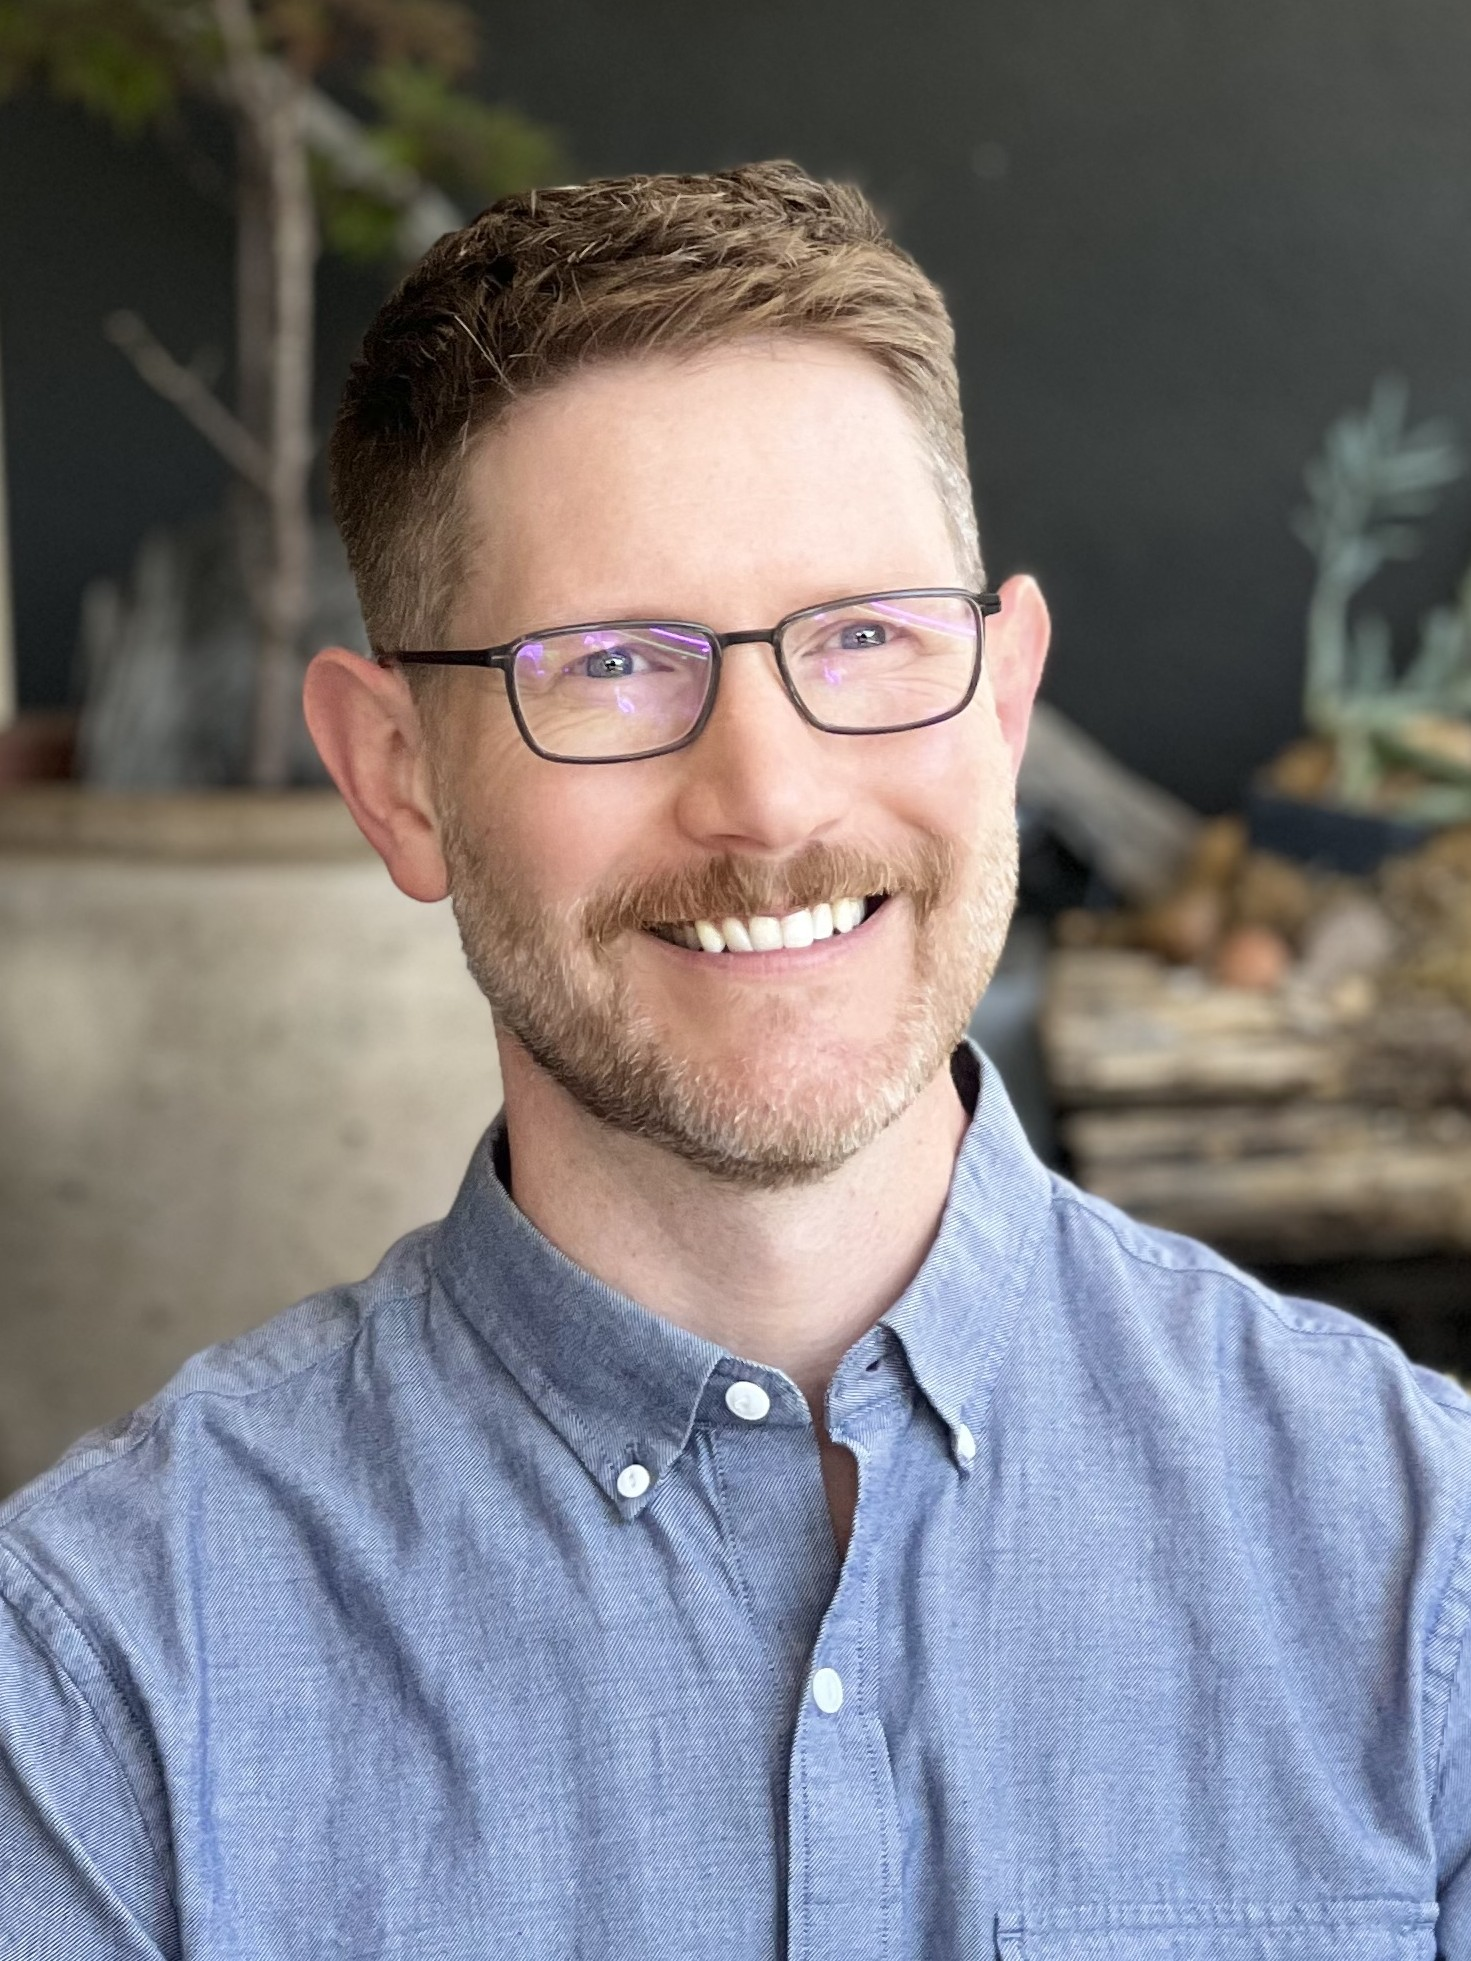
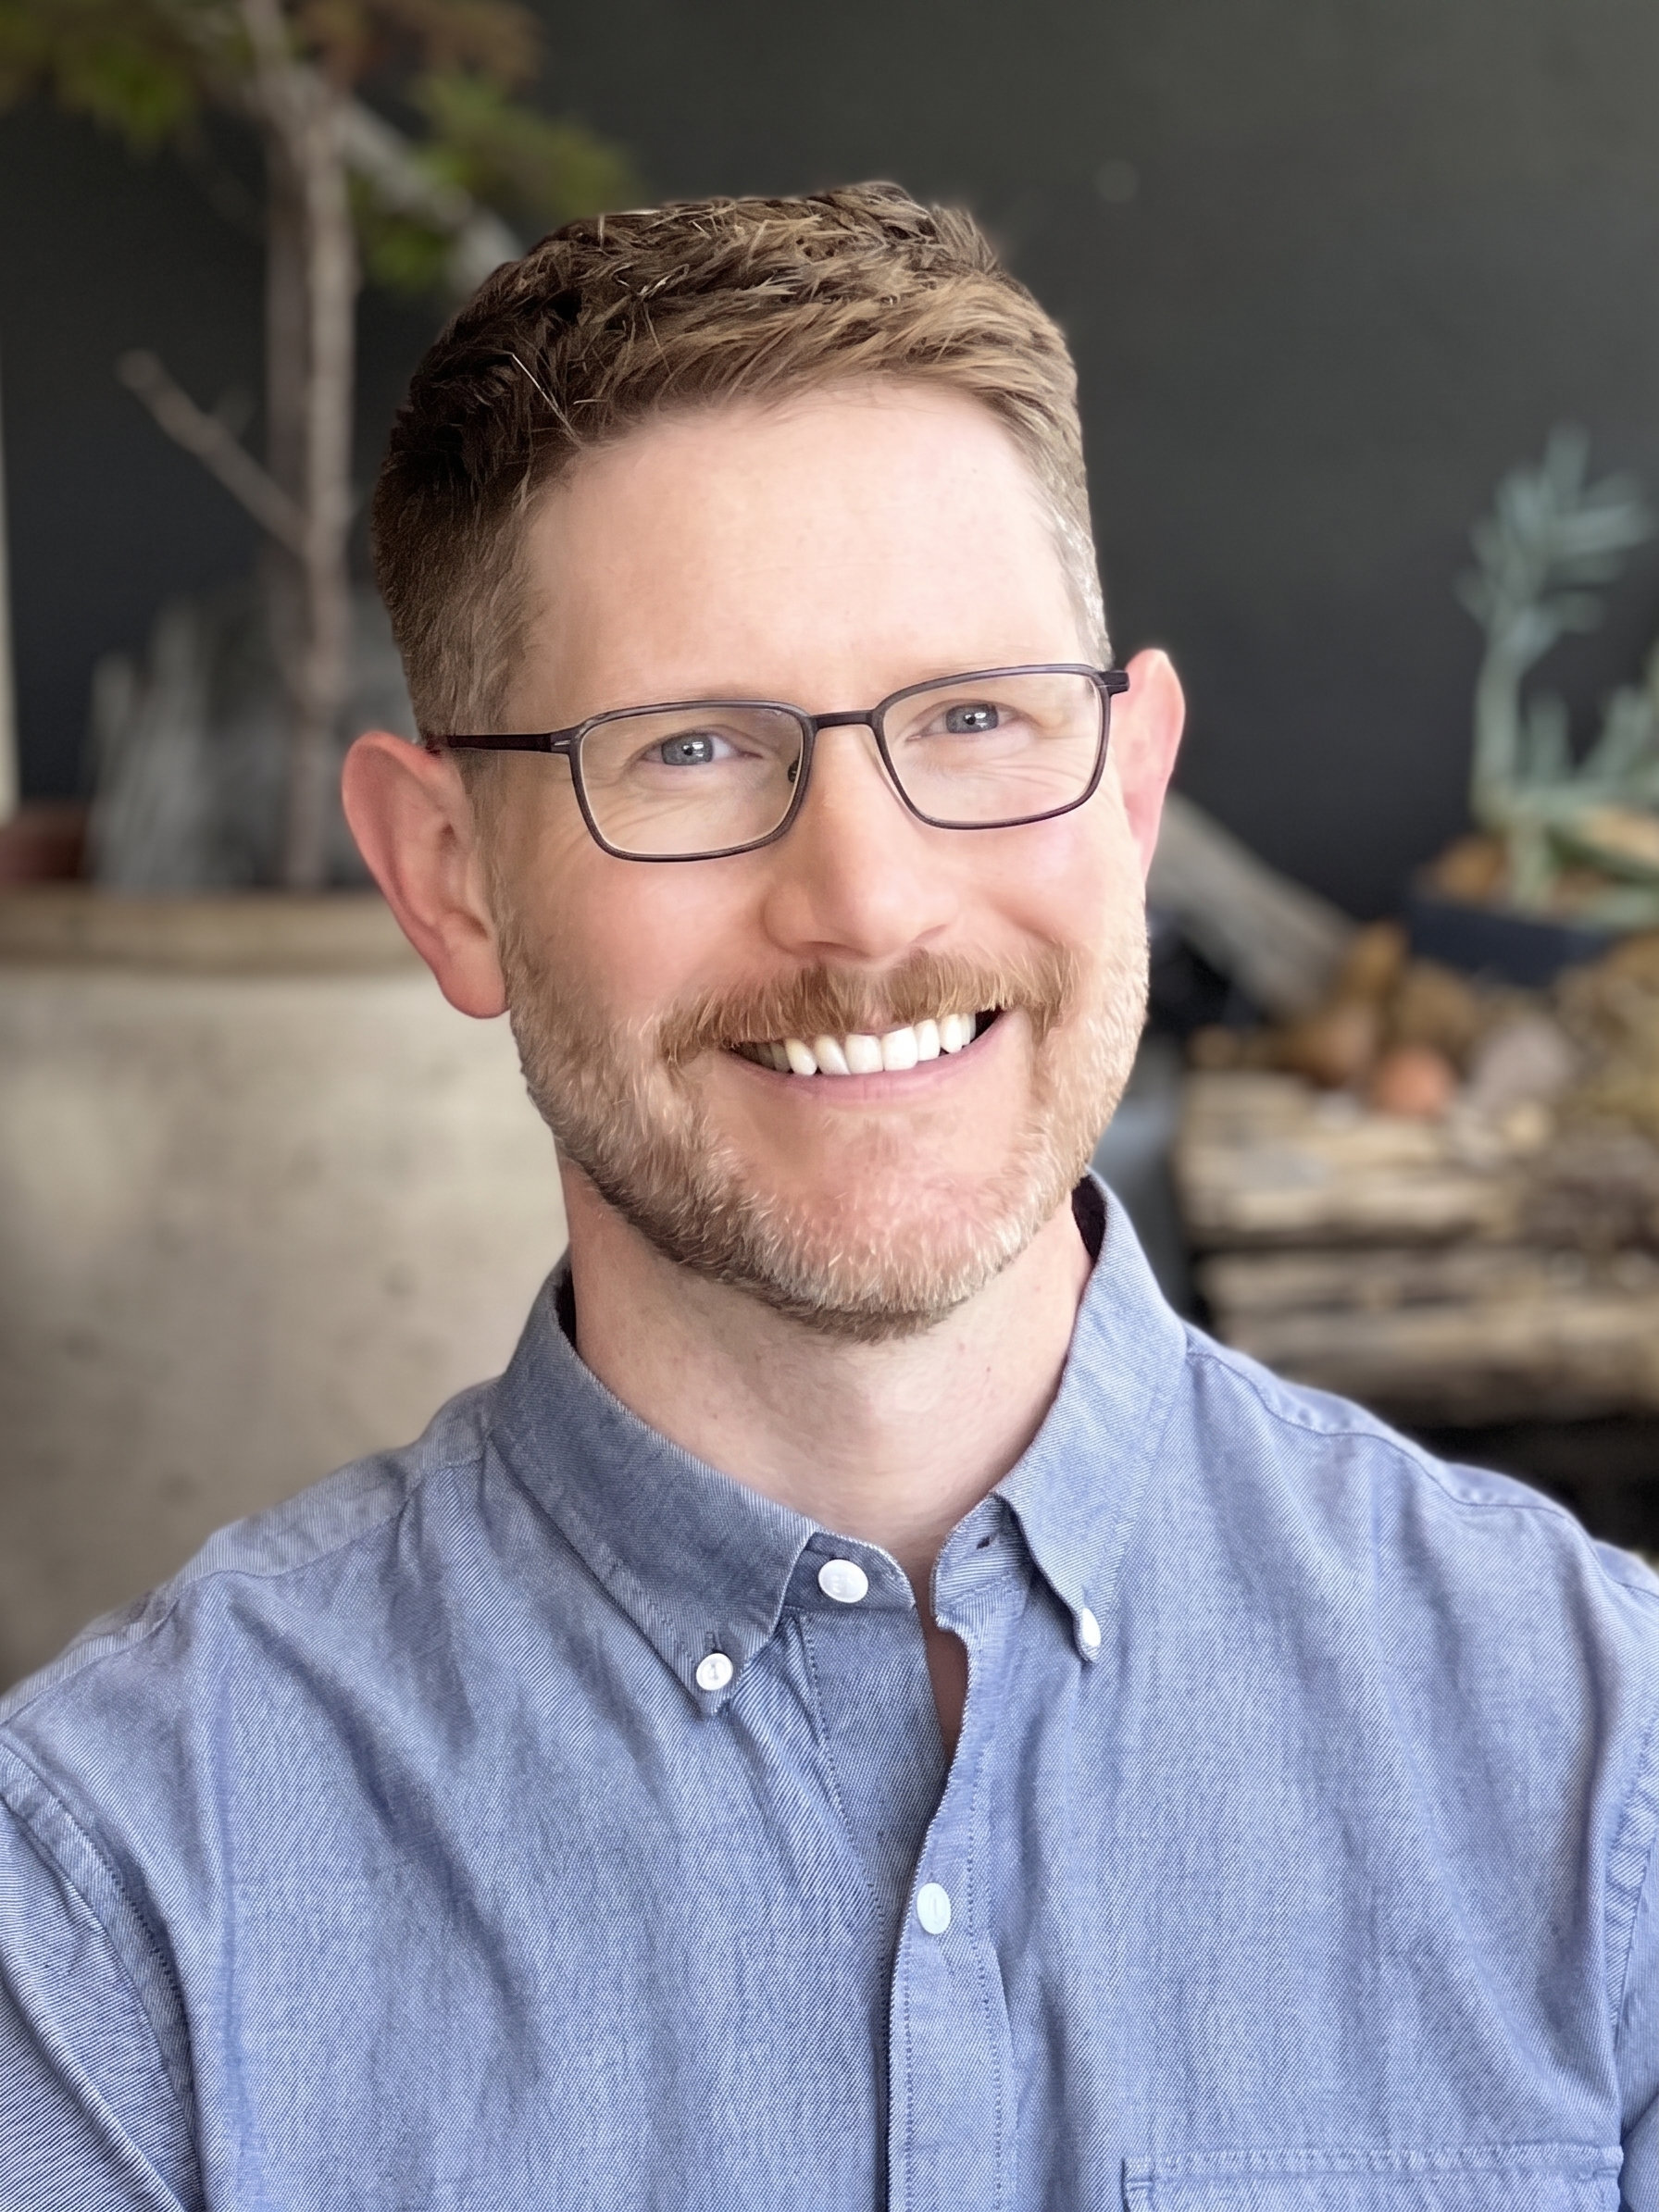
update about section text and remove product design section

diff --git a/projects.js b/projects.js
@@ -238,26 +238,6 @@ const PROJECTS = [
     ]
   },
 
-  // ─── PRODUCT DESIGN ─────────────────────────────────────────────────────────
-  {
-    slug: 'leatherwork',
-    title: 'Leatherwork',
-    location: 'Design International',
-    category: 'product',
-    categoryLabel: 'Product Design',
-    cover: 'images/leatherwork/briefcase_cover.jpg',
-    scope: 'Design and Fabrication',
-    description: "A leatherworking practice spanning sixteen years, rooted in a practical need — a travel briefcase large enough for 12×18 drawing sets — and grown into a recurring discipline. Wallets, journals, and bags made from vegetable-tanned leather using saddle stitching and vinegaroon dyeing.",
-    gallery: [
-      'images/leatherwork/wallet1.jpg',
-      'images/leatherwork/wallet2.jpg',
-      'images/leatherwork/Briefcase1.jpg',
-      'images/leatherwork/passport_wallet1.jpg',
-      'images/leatherwork/passport_wallet2.jpg',
-      'images/leatherwork/journal1.jpg',
-      'images/leatherwork/journal2.jpg',
-    ]
-  },
 ];
 
 // Ordered category groups for homepage display
@@ -265,5 +245,4 @@ const CATEGORY_ORDER = [
   { key: 'restaurant', label: 'Restaurant Design' },
   { key: 'residential', label: 'Residential Design' },
   { key: 'rendering', label: 'Rendering & Concept Design' },
-  { key: 'product', label: 'Product Design' },
 ];

diff --git a/index.html b/index.html
@@ -57,7 +57,7 @@
           Zachary Spillers is an architectural and interior designer with over twenty years of experience shaping spaces where people live, gather, and eat — from custom residential and multi-family developments to restaurants and commercial interiors. Rooted in a family practice that began with hospitality design, his work is driven by a conviction that well-designed spaces are quietly transformative — felt before they're understood.
         </p>
         <p class="about-bio" style="margin-top:1.5em;">
-          This portfolio spans 2008–2025 and reflects a career built across markets, scales, and typologies, always in pursuit of environments worth returning to.
+          This portfolio spans 2008–2025 and reflects a career built across markets, scales, and typologies, creating environments that draw you back again and again.
         </p>
       </div>
     </div>